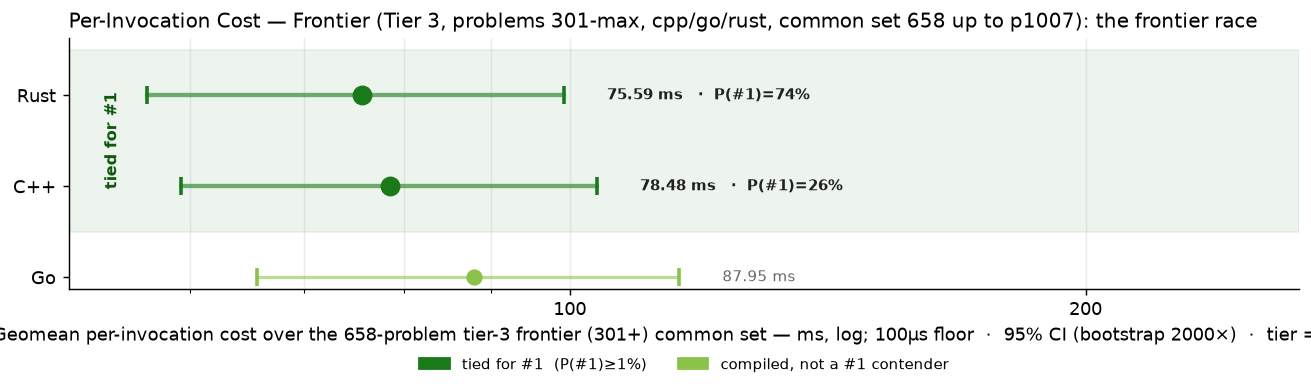
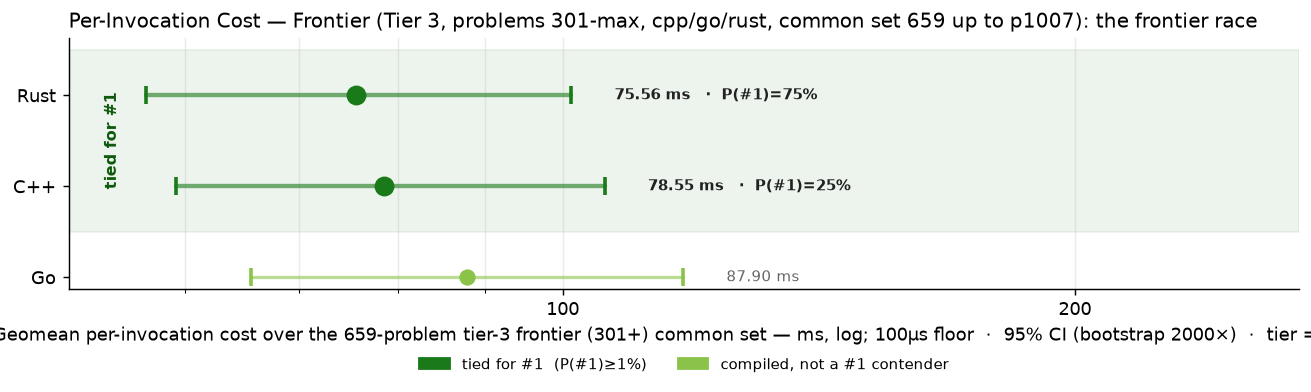
cpp p0818

diff --git a/RESULTS.md b/RESULTS.md
@@ -1,6 +1,6 @@
 # Project Euler — Cross-Language Benchmarks
 
-> **Scope: 4521 in-scope cells across 1007 problems × tiered languages — 4422 measured (97.8% coverage).**
+> **Scope: 4521 in-scope cells across 1007 problems × tiered languages — 4423 measured (97.8% coverage).**
 > The cross-language ranking below is computed over the **200-problem common set** (problems in 1-200 where every language has a passing measurement) — the apples-to-apples Foundation comparison surface.  Per-tier rankings and coverage detail appear further below.
 > Growing carefully — each new problem and language is audited for state-leak
 > safety, verified for answer correctness, and added only when it cleanly fits the
@@ -70,15 +70,15 @@ Same scatter as the Foundation chart, restricted to the tier-2 active languages 
 
 The frontier verification trio — C++, Go, Rust — on problems above 300. 3-way cross-language agreement is the verification protocol (strictly stronger than 2-way; see JOURNEY.md "Tier Reframing" episode for the p254 lesson that motivated it). Python and Zig are explicitly out of this tier — python's wall cost makes it impractical at level 5+, and zig's role caps at Tier 2.
 
-### Per-Invocation Cost (Common Set, 658 of ≤707 problems in scope)
+### Per-Invocation Cost (Common Set, 659 of ≤707 problems in scope)
 
 ![Per-Invocation Cost — Tier 3](charts/per_iter_total_tier3.png)
 
-| Rank | Language | Geomean (658-problem common set) | Total (sum) | Lines of code | vs Fastest |
+| Rank | Language | Geomean (659-problem common set) | Total (sum) | Lines of code | vs Fastest |
 |------|----------|--------------------:|------------:|--------------:|-----------:|
-| 1 | **Rust** | 75.59 ms | 1761.09 s | 132,448 | 1.00× |
-| 2 | **C++** | 78.48 ms | 1903.20 s | 96,280 | 1.04× |
-| 3 | **Go** | 87.95 ms | 2131.48 s | 122,551 | 1.16× |
+| 1 | **Rust** | 75.56 ms | 1761.14 s | 132,596 | 1.00× |
+| 2 | **C++** | 78.55 ms | 1903.34 s | 96,484 | 1.04× |
+| 3 | **Go** | 87.90 ms | 2131.55 s | 122,883 | 1.16× |
 
 ### Speed vs Code Size
 
@@ -264,7 +264,7 @@ table never silently mixes versions (METHODOLOGY.md §4).  Current state of the
 |----------|-----------|------:|---------------|
 | **ARM64** | `Apple clang version 21.0.0 (clang-2100.1.1.101)` | 200 | 2026-07-30 |
 | **C** | `Apple clang version 21.0.0 (clang-2100.1.1.101)` | 200 | 2026-07-30 |
-| **C++** | `Apple clang version 21.0.0 (clang-2100.1.1.101)` | 958 | 2026-09-06 |
+| **C++** | `Apple clang version 21.0.0 (clang-2100.1.1.101)` | 959 | 2026-09-06 |
 | **C#** | `10.0.101` | 200 | 2026-07-30 |
 | **Go** | `go version go1.26.5 darwin/arm64` | 962 | 2026-09-06 |
 | **Java** | `openjdk version "21.0.2" 2024-01-16 LTS` | 200 | 2026-07-30 |

diff --git a/per_problem/per_problem_0801-0900.md b/per_problem/per_problem_0801-0900.md
@@ -25,7 +25,7 @@ in tier-1 display order (native → managed → interpreted).
 | **p0815** | 107.39 ms | 687.41 ms | 1.16 s |
 | **p0816** | 144.46 ms | 269.31 ms | 1.21 s |
 | **p0817** | 15.86 ms | 29.25 ms | 27.02 ms |
-| **p0818** | — | 58.74 ms | 62.53 ms |
+| **p0818** | 140.05 ms | 58.74 ms | 62.53 ms |
 | **p0819** | 2.18 ms | 44.10 ms | 1.23 ms |
 | **p0820** | 877.34 ms | 651.49 ms | 692.89 ms |
 | **p0821** | — | 6.16 ms | 1.41 ms |
